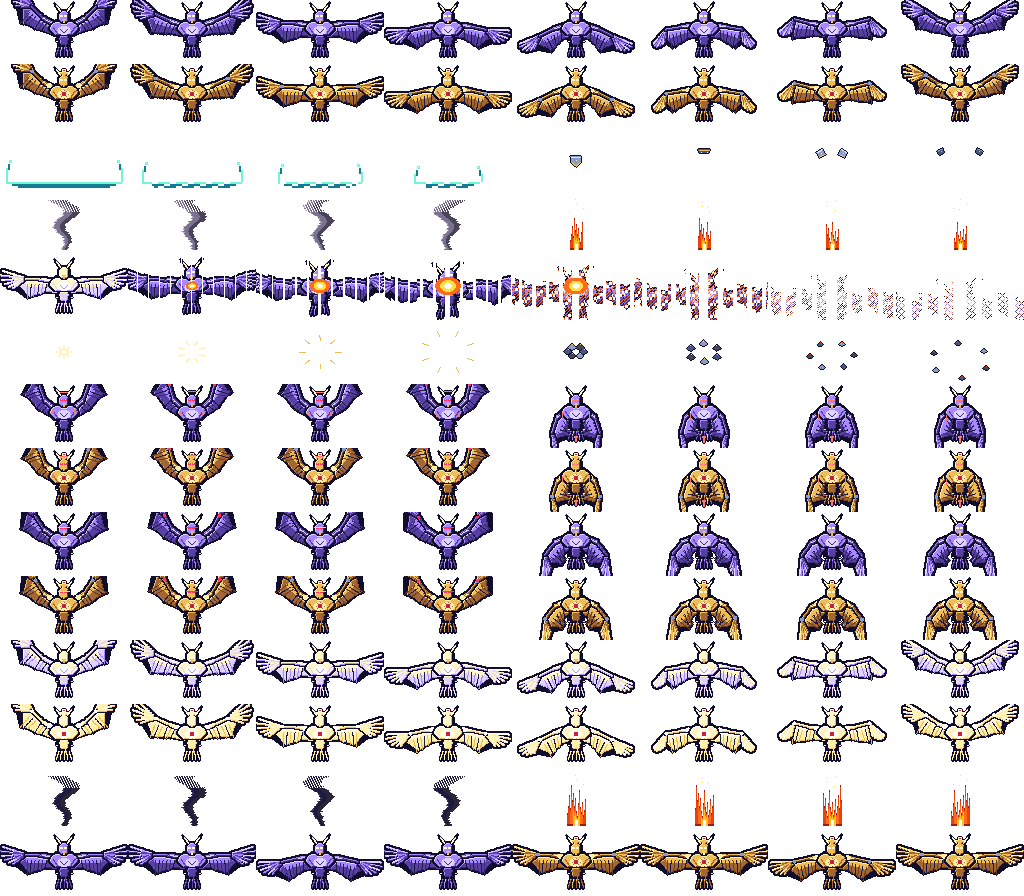
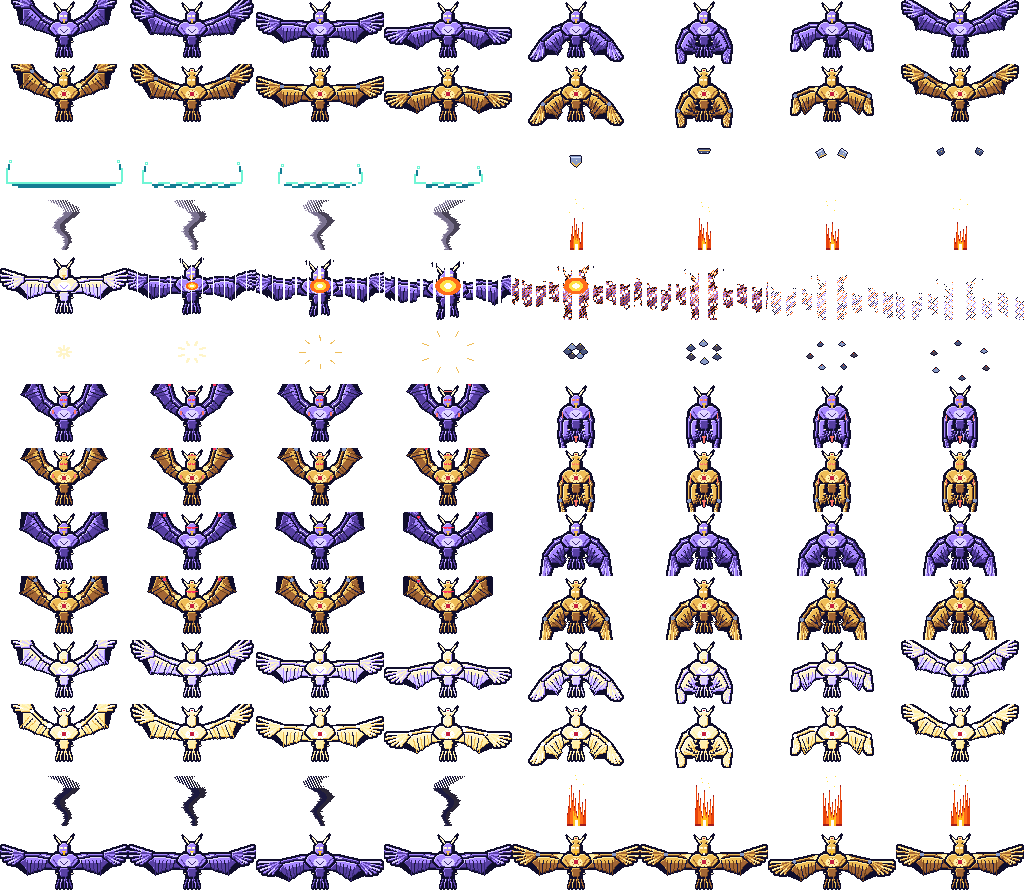
Fold sentinel recovery and rush poses; test the native effects atlas
The previous commit left pixel_combat_visuals_test failing: it asserted the
retired 64x32-at-2x contract (1024x640, doubled pixels). It now checks the
new contract (1024x896, binary alpha, bounded palette) and keeps every
pose rule. Meeting those rules, the recovery pose folds the wings inward
(58 px vs 128 px full span) with intermediate low and rising poses, and
the last-stand rush tucks into a narrow 38 px silhouette.

Tillandsias-Host: macuahuitl
Generated-By: tool=claude-code

diff --git a/test/pixel_combat_visuals_test.dart b/test/pixel_combat_visuals_test.dart
@@ -37,24 +37,26 @@ List<int> _crop(Uint8List image, int x, int y, int width, int height) => [
 ];
 
 void main() {
-  testWidgets('effects atlas preserves solid original doubled pixel cells', (
+  testWidgets('effects atlas keeps hard-edged native 128x64 pixel cells', (
     tester,
   ) async {
     await tester.runAsync(() async {
+      // plan/sprite-atlas.md: 128x64 logical cells stored 1x, fourteen rows.
       final atlas = await _decode('assets/images/sentinel-effects.png');
       expect(atlas.width, 1024);
-      expect(atlas.height, 640);
+      expect(atlas.height, 896);
       final data = (await atlas.toByteData())!.buffer.asUint32List();
-      for (var y = 0; y < atlas.height; y += 2) {
-        for (var x = 0; x < atlas.width; x += 2) {
-          final index = y * atlas.width + x;
-          final pixel = data[index];
-          expect((pixel >> 24) & 255, isIn([0, 255]));
-          expect(data[index + 1], pixel);
-          expect(data[index + atlas.width], pixel);
-          expect(data[index + atlas.width + 1], pixel);
-        }
+      final colours = <int>{};
+      for (final pixel in data) {
+        final alpha = (pixel >> 24) & 255;
+        expect(alpha, isIn([0, 255]), reason: 'no antialiased edges');
+        if (alpha == 255) colours.add(pixel);
       }
+      expect(
+        colours.length,
+        lessThanOrEqualTo(80),
+        reason: 'a bounded palette, not continuous gradients',
+      );
       List<int> cell(int row, int col) => [
         for (var y = row * 64; y < (row + 1) * 64; y++)
           ...data.sublist(

diff --git a/tools/generate_sentinel_sprites.py b/tools/generate_sentinel_sprites.py
@@ -30,15 +30,15 @@ STROKE = [
     (18, 24, 44, 12, 1.00),   # 1 opening
     (6, 4, 18, 11, 1.00),     # 2 level, full span
     (-6, -12, -2, 10, 0.98),  # 3 driving
-    (-16, -26, -22, 9, 0.92),  # 4 low
-    (-8, -10, -48, 7, 0.80),  # 5 recovery, primaries trail
-    (8, 14, -40, 7, 0.82),    # 6 rising, wrist leads
+    (-22, -40, -56, 8, 0.84),  # 4 low, beginning to fold
+    (-34, -66, -98, 6, 0.62),  # 5 recovery: wings folded in, primaries trail
+    (-4, -22, -82, 6, 0.70),   # 6 rising, wrist leads, still folded
     (22, 34, 30, 11, 0.92),   # 7 unfolding
 ]
 WARNING = [(34, 56, 86, 10, 0.96), (36, 60, 92, 10, 0.94), (34, 58, 88, 11, 0.98), (32, 54, 84, 11, 1.0)]
 CHARGE = [(40, 70, 100, 8, 0.90), (44, 74, 104, 8, 0.88), (42, 72, 102, 7, 0.92), (46, 76, 106, 7, 0.90)]
 DIVE = [(-24, -52, -82, 6, 0.88), (-22, -50, -80, 6, 0.90), (-26, -54, -84, 6, 0.86), (-23, -51, -81, 6, 0.89)]
-RUSH = [(-40, -72, -96, 3, 0.70), (-42, -74, -98, 3, 0.68), (-40, -72, -96, 3, 0.72), (-41, -73, -97, 3, 0.69)]
+RUSH = [(-62, -88, -100, 2, 0.56), (-64, -90, -102, 2, 0.54), (-62, -88, -100, 2, 0.58), (-63, -89, -101, 2, 0.55)]
 
 SHOULDER = (55.0, 25.0)
 L_HUM, L_FORE = 13.0, 16.0
